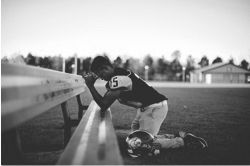
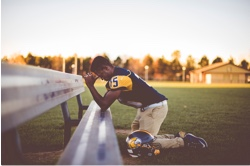
Adding privacy policy and terms of use. Text updates. Use color images on home page instead of B&W

diff --git a/index.js b/index.js
@@ -20,7 +20,7 @@ app.get('/', (req, res) => res.render('home', { title: configs.pages.home.title,
 app.get('/about', (req, res) => res.render('about', { title: configs.pages.about.title, configs: configs }) );
 app.get('/contact', (req, res) => res.render('contact', { title: configs.pages.contact.title, configs: configs }) );
 app.get('/privacy-policy', (req, res) => res.render('privacy-policy', { title: configs.pages.privacy_policy.title, configs: configs }) );
-app.get('/terms', (req, res) => res.render('terms-of-use', { title: configs.pages.terms.title, configs: configs }) );
+app.get('/terms-of-use', (req, res) => res.render('terms-of-use', { title: configs.pages.terms.title, configs: configs }) );
 
 app.post('/contact', (req, res) => {
     let name = req.body.name,

diff --git a/web/src/less/home.less b/web/src/less/home.less
@@ -32,7 +32,7 @@
     box-shadow: 0 5px 20px 4px rgba(0, 0, 0, 0.18);
     border-radius: 10px;
     display: inline-block;
-    margin: 0 auto 30px;
+    margin: 0 auto 60px;
 }
 
 .fancliq__home__images__item__image {
@@ -48,6 +48,8 @@
     padding-top: 165px;
     padding-bottom: 60px;
     text-align: center;
+    position: relative;
+    z-index: 2;
 
     @media (min-width: @screen-sm) {
         padding-top: 185px;
@@ -94,6 +96,7 @@
 .fancliq__home__banner__image--camera {
     top: 30%;
     left: 0;
+    opacity: .5;
 }
 
 .fancliq__home__banner__image--soccer-ball {

diff --git a/web/src/less/layout.less b/web/src/less/layout.less
@@ -20,6 +20,10 @@ html,
     position: relative;
     margin: 0 auto;
     min-height: 100vh;
+
+    a {
+        color: @color-primary;
+    }
 }
 
 .fancliq__header {
@@ -29,7 +33,7 @@ html,
     left: 0;
     right: 0;
     background-color: rgba(255, 255, 255, .9);
-    z-index: 2;
+    z-index: 3;
 
     @media (min-width: @screen-sm) {
         display: flex;

diff --git a/web/src/less/headers.less b/web/src/less/headers.less
@@ -1,0 +1,9 @@
+.fancliq__primary__header {
+    font-family: @font-good-times;
+    font-size: 36px;
+    color: @color-dark-gray;
+
+    @media (min-width: @screen-sm) {
+        font-size: 46px;
+    }
+}

diff --git a/web/src/less/app.less b/web/src/less/app.less
@@ -8,6 +8,9 @@
 @import "variables";
 @import "layout";
 @import "buttons";
+@import "headers";
 @import "home";
 @import "about-us";
 @import "contact";
+@import "terms-of-use";
+@import "privacy-policy";

diff --git a/web/src/less/privacy-policy.less b/web/src/less/privacy-policy.less
@@ -1,0 +1,7 @@
+.fancliq__privacy-policy {
+    padding: 150px 0 20px;
+}
+
+.fancliq__privacy__header {
+    text-align: center;
+}

diff --git a/web/src/less/terms-of-use.less b/web/src/less/terms-of-use.less
@@ -1,0 +1,7 @@
+.fancliq__terms {
+    padding: 150px 0 20px;
+}
+
+.fancliq__terms__header {
+    text-align: center;
+}
